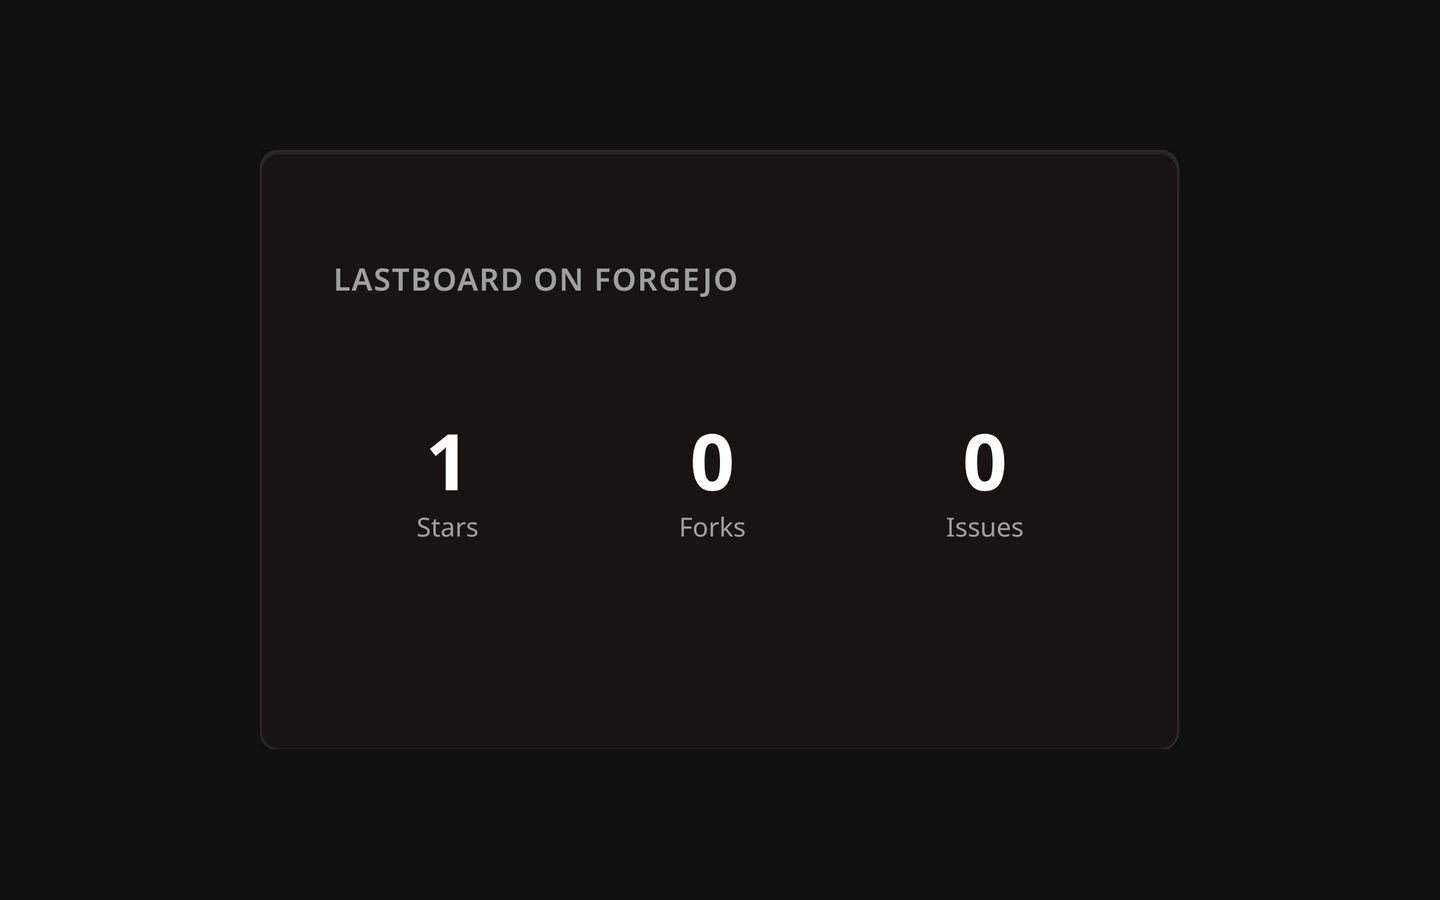
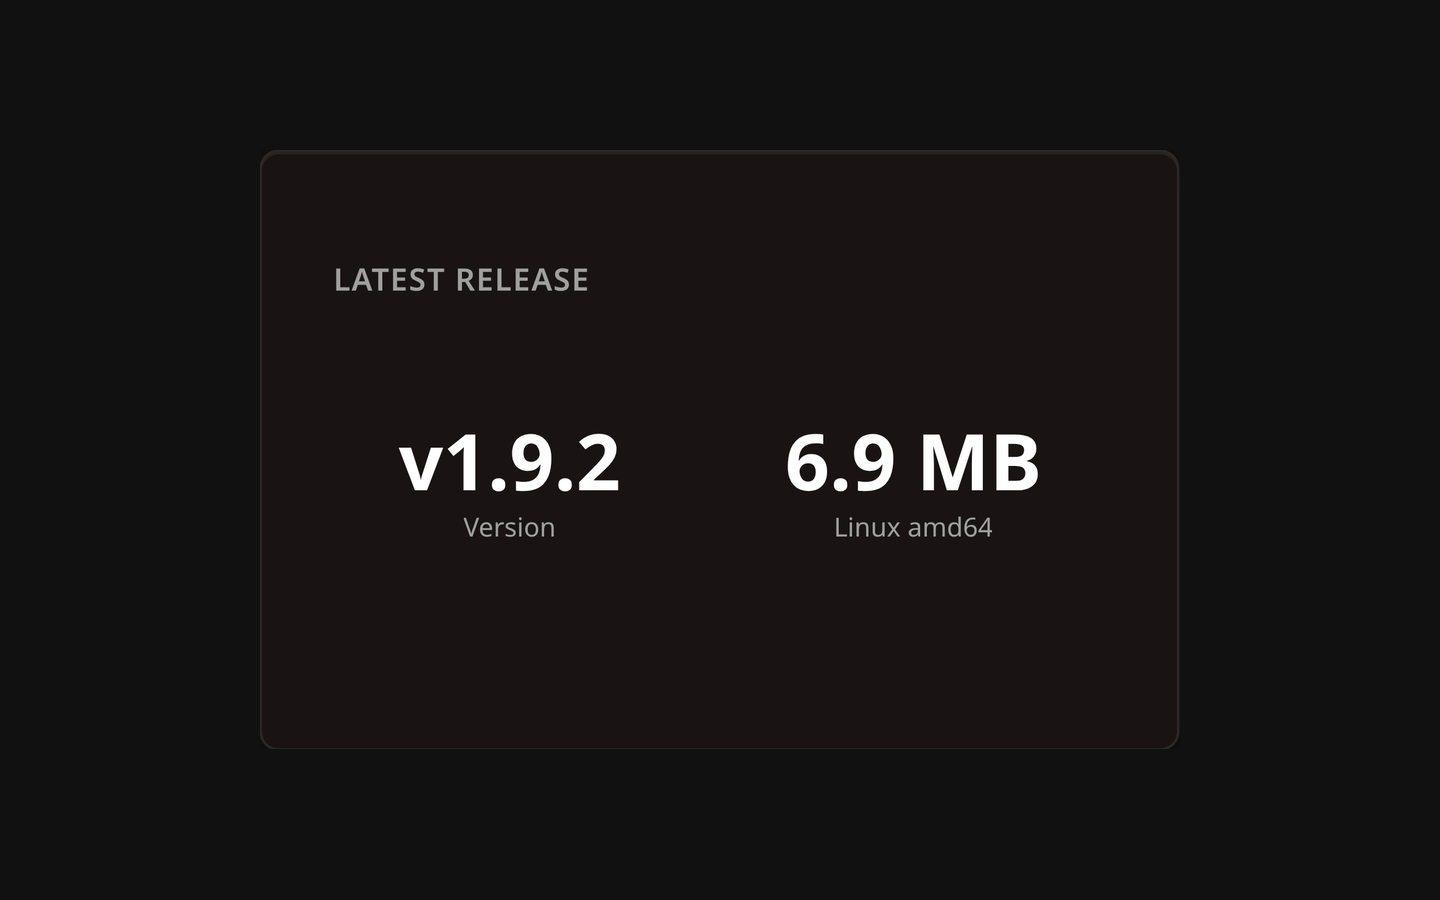
docs: the API widget in the captures reads the latest release, not stars and forks

Changed region(s): [[0.4688, 0.4667, 0.7188, 0.6222], [0.2812, 0.4667, 0.4375, 0.5911], [0.25, 0.28, 0.5, 0.3422]]

diff --git a/scripts/docs-shots.ts b/scripts/docs-shots.ts
@@ -713,8 +713,11 @@ async function seedLiveData(dbPath: string, token: string, csrf: string) {
     }
     addWidget(5, 5, 3, 2, {
         widgetId: 'api',
-        title: 'Lastboard on Forgejo',
-        url: 'https://git.codigosh.com/api/v1/repos/CodigoSH/Lastboard',
+        // The latest release: a version and the size of its Linux download. It was
+        // stars, forks and issues, which the forge no longer shows publicly, so the
+        // screenshots counted something nobody could check.
+        title: 'Latest release',
+        url: 'https://git.codigosh.com/api/v1/repos/CodigoSH/Lastboard/releases/latest',
         method: 'GET',
         refreshSec: 300,
         // An object, not an array: the proxy decodes this into a string map and
@@ -723,9 +726,8 @@ async function seedLiveData(dbPath: string, token: string, csrf: string) {
         headers: {},
         arrayPath: '',
         mappings: [
-            { label: 'Stars', path: 'stars_count', format: 'number' },
-            { label: 'Forks', path: 'forks_count', format: 'number' },
-            { label: 'Issues', path: 'open_issues_count', format: 'number' },
+            { label: 'Version', path: 'tag_name' },
+            { label: 'Linux amd64', path: 'assets[2].size', format: 'bytes' },
         ],
     });
     db.close();
